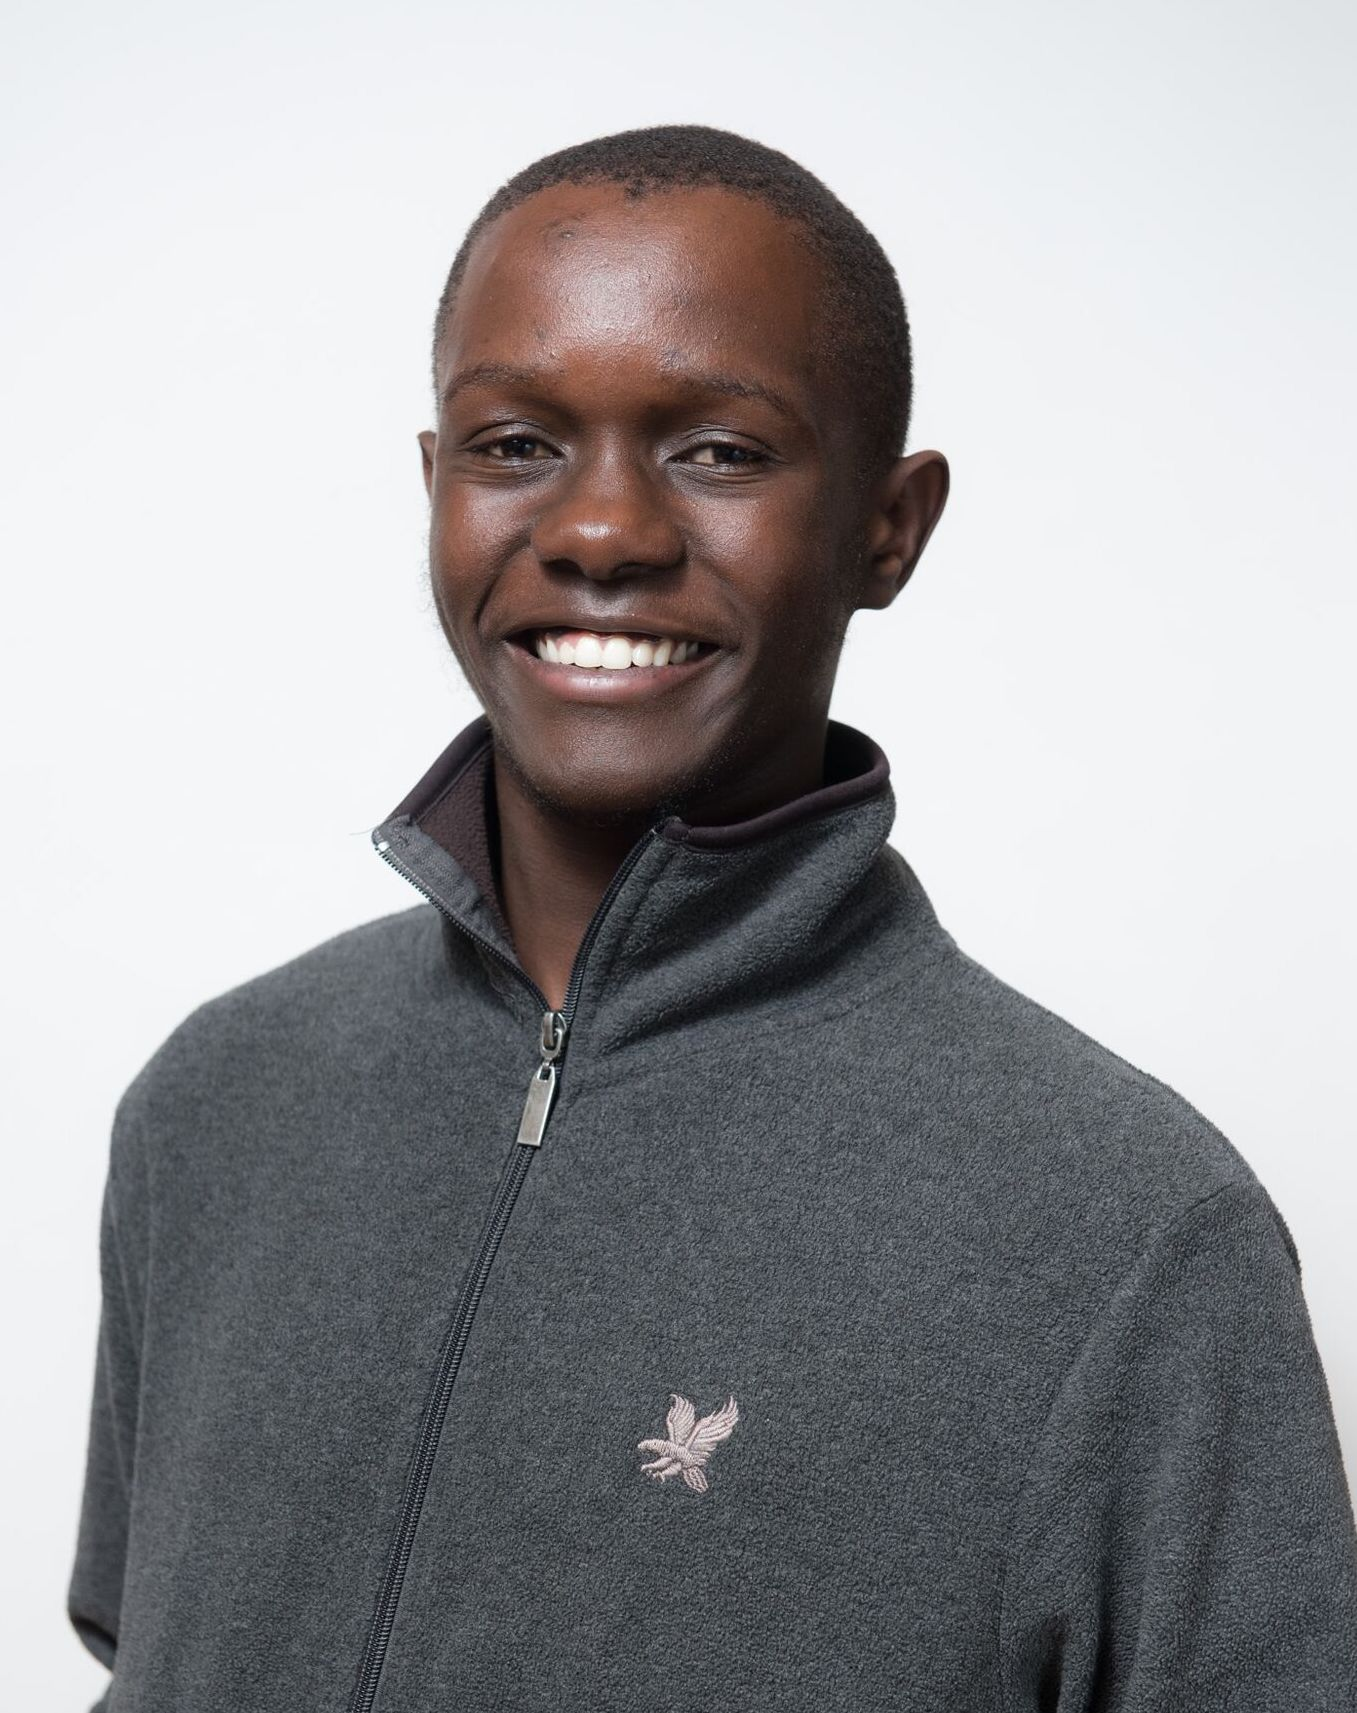
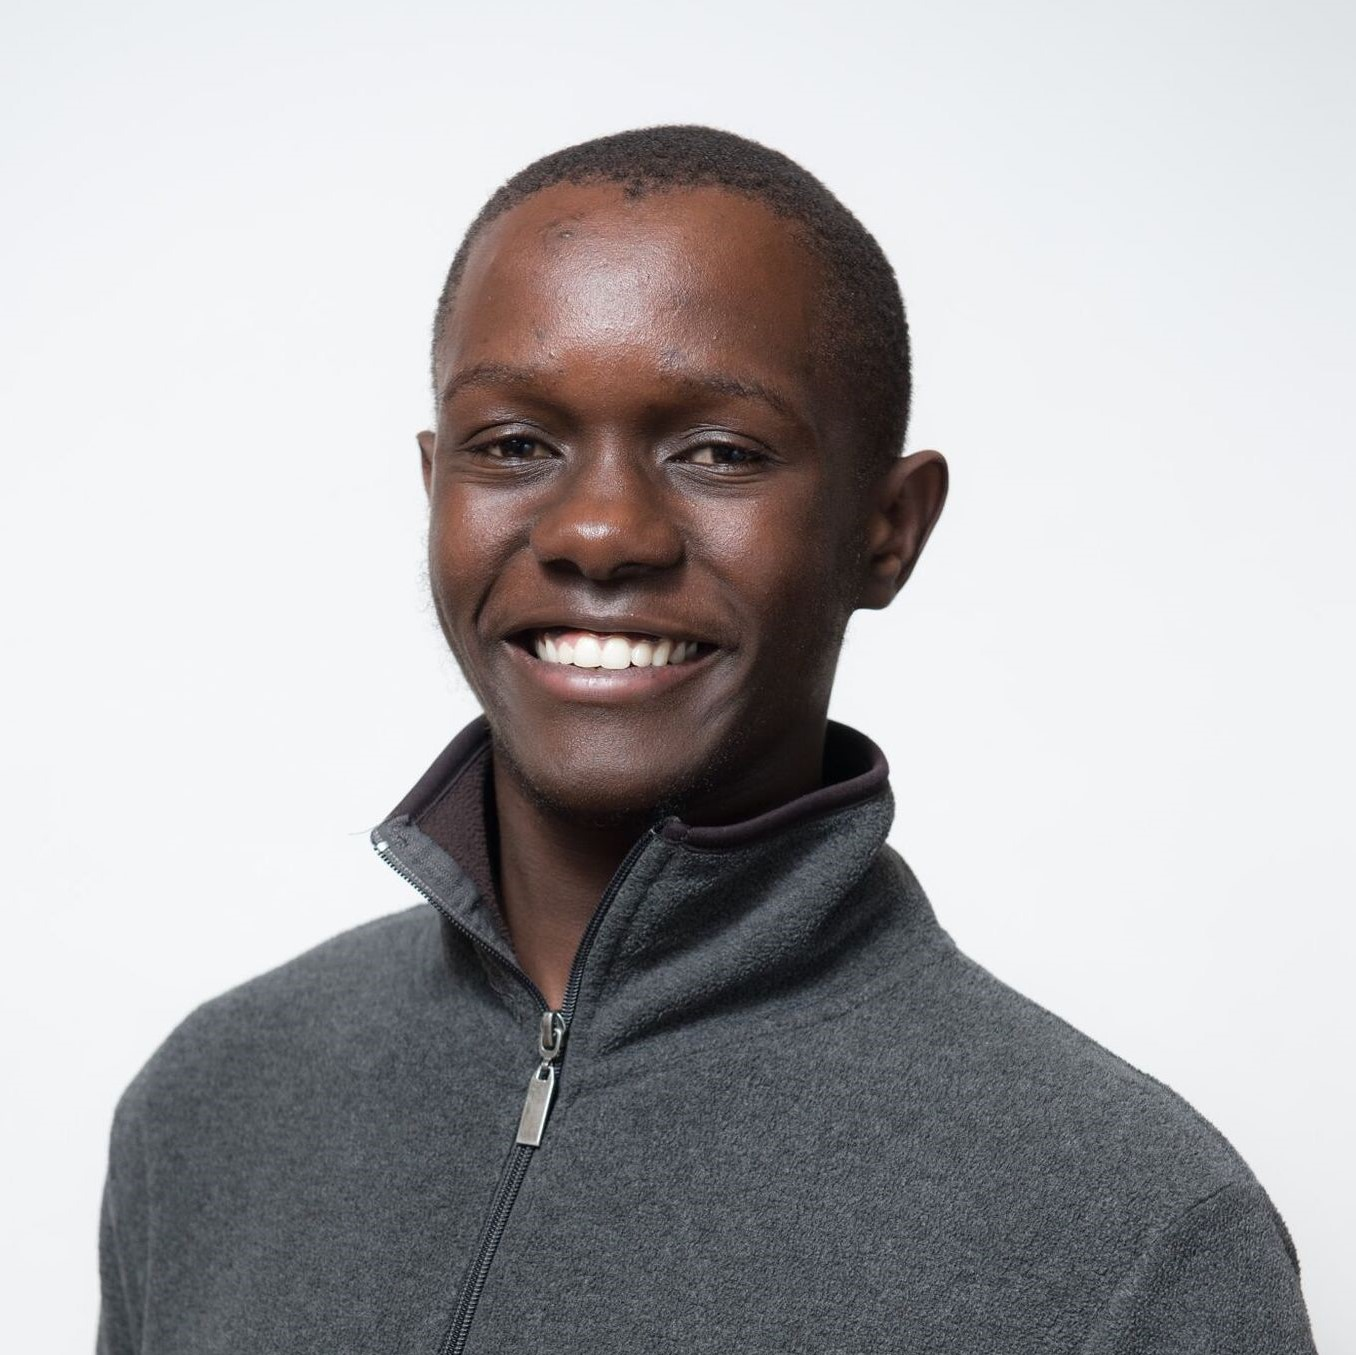
added my reflection, more decriptions, square photos

diff --git a/Reflections.md b/Reflections.md
@@ -13,19 +13,23 @@ Overall lessons learned and skills developed as a team:
 5. Approaching problems from a 1st principles view point to avoid technical debt later on.
 6. Grit in figuring things out after multiple attempts.
 
-## Maria:
+## Maria
 
-## Jessica:
+Our greatest struggles were with communication and planning. For a lot of our robot, we worked individually and occasionally our work overlapped; more communication could have made our work more efficient and improved our designs through greater collaboration. Many of our components went through several iterations before we decided on a final design, and while some of the this was necessary, a lot of mistakes could have been avoided if we worked more carefully to plan things out in greater detail.
+
+I learned not only about how to work on and manage a project with other people, but also about how to make myself an easier person to work with.
+
+## Jessica
 
 We wanted a robot that was modular, one that could be taken apart easily and worked on separately. We did accomplish that, but we didn't spend enough time making sure that the parts we made were still *designed* to work together. As the competition approached, we ended up having to spend too much time trying to make all the pieces work together, something we may have been able to make smoother if we had spent more time designing everything together. 
 
 Making the claw was a fantastic experience because I got to do a little bit of everything: mechanical design, fabrication, electrical connections and power, and software. I learned many valuable lessons (the hard way) about the importance of not relying on epoxy, the beauty of sheet metal, and current-greedy servo motors. 
 
-## Bereket:
+## Bereket
 
 This experience has taught me the lesson that a simple and robust design is most often the best design overall. We had several technical issues early on when we were coming up for ways to implement out first gap crossing technique. We required a tremendous amount of torque and needed to have every component in the mechanism secured down so that it was robust and reliable. This proved to be a challenge and as time went on, we saw the time commitment required for this single mechanism rise. Thus, in the end, we decided on using a simpler bridge dropping method to save on much needed time to work on other modules of the robot. 
 
-## Brendon:
+## Brendon
 
 Working effectively in a team environment was a key learning point. Setting goals and tasks to be done was an evolving process and watching team dynamics evolve throughout the team was fascinating. Time constraints were palpable and the frustrations of facing setbacks due to the natural learning process led to a few full nights at the lab.
 

diff --git a/The Team.md b/The Team.md
@@ -18,26 +18,31 @@ permalink: /team/
 <tr>
 
 <td>
-<strong>Brendon Tankwa</strong><br>Master of Circuitry<br><br>
+<strong>Brendon Tankwa</strong><br>Master of Circuitry<br>Designed, debugged, and built all of our complex circuits<br><br>
 <a title="Github" href="https://github.com/btankwa"><img class="linx" src="/assets/githubicon.svg"></a>
 <a title="LinkedIn" href="https://www.linkedin.com/in/brendon-tankwa-02a079143/"><img class="linx" src="/assets/linkedin-icon.svg"></a>
 </td>
 
 <td>
-<strong>Bereket Guta</strong><br>Master of CAD<br><br>
+<strong>Bereket Guta</strong><br>Master of CAD<br>Designed, prototyped and tested our chassis, wheels, scissor lift<br><br>
+
 <a title="Github" href="https://github.com/bguta"><img class="linx" src="/assets/githubicon.svg"></a>
 <a title="LinkedIn" href="https://www.linkedin.com/in/bereket-guta/"><img class="linx" src="/assets/linkedin-icon.svg"></a>
 </td>
 
 <td>
-<strong>Jessica Ma</strong><br>Master of the Claw<br><br>
+<strong>Jessica Ma</strong><br>Master of the Claw<br>
+
+Designed, tested, and coded every aspect of the claw<br>
+<br>
+
 <a title="Github" href="https://github.com/gejessicama"><img class="linx" src="/assets/githubicon.svg"></a>
 <a title="LinkedIn" href="https://www.linkedin.com/in/gejessicama/"><img class="linx" src="/assets/linkedin-icon.svg"></a>
 <a title="Website" href="http://jessicama.ca"><img class="linx" src="/assets/website-icon.svg"></a>
 </td>
 
 <td>
-<strong>Maria Sottile</strong><br>Master of Code<br><br>
+<strong>Maria Sottile</strong><br>Master of Code<br>Built our Ewok sensors, structured and wrote much of the code<br><br>
 <a title="Github" href="https://github.com/masottile"><img class="linx" src="/assets/githubicon.svg"></a>
 <a title="LinkedIn" href="https://www.linkedin.com/in/maria-sottile-723153162/"><img class="linx" src="/assets/linkedin-icon.svg"></a>
 </td>
